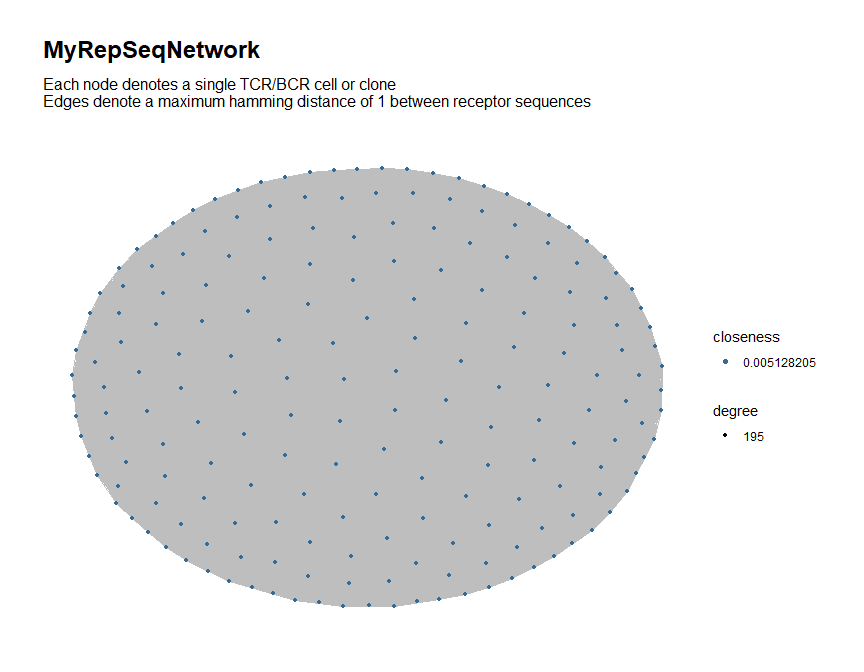
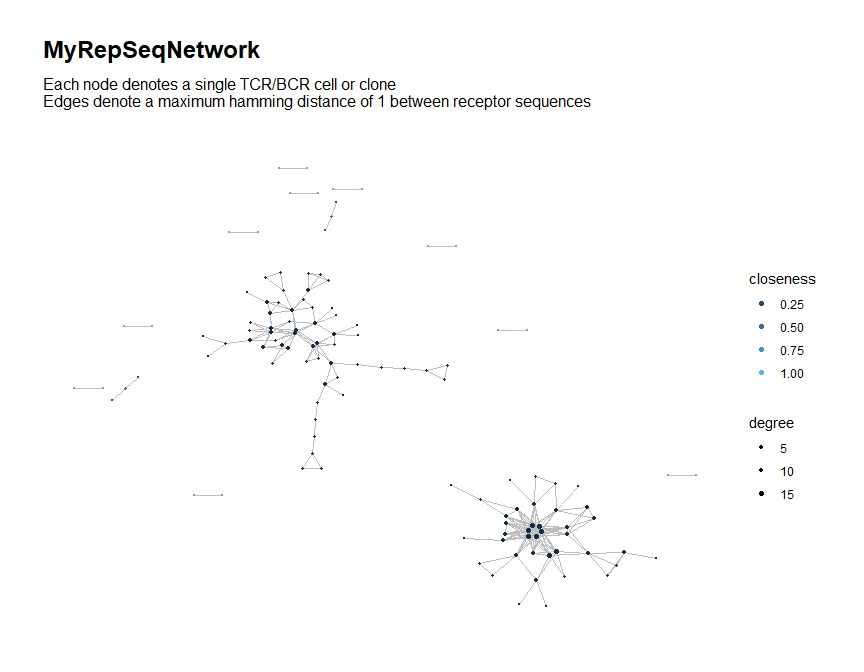
bugfix to simulateToyData

diff --git a/README.md b/README.md
@@ -103,21 +103,14 @@ package functions.
 library(NAIR)
 dir_out <- tempdir()
 toy_data <- simulateToyData()
-#> Warning in seqs[ranges[, i]] <- paste0(prefix, sample(affixes, size =
-#> sample_size, : number of items to replace is not a multiple of replacement
-#> length
-
-#> Warning in seqs[ranges[, i]] <- paste0(prefix, sample(affixes, size =
-#> sample_size, : number of items to replace is not a multiple of replacement
-#> length
 head(toy_data)
 #>        CloneSeq SampleID
 #> 1 TTGAGGAAATTCG        1
 #> 2 GGAGATGAATCGG        1
-#> 3  TTAAAAAAATTC        1
-#> 4 AAAATAAAATTGG        1
-#> 5                      1
-#> 6                      1
+#> 3 GTCGGGTAATTGG        1
+#> 4 GCCGGGTAATTCG        1
+#> 5 GAAAGAGAATTCG        1
+#> 6 AGGTGGGAATTCG        1
 ```
 
 ## Basic Usage
@@ -133,23 +126,23 @@ head(toy_data)
 output <- buildRepSeqNetwork(toy_data, seq_col = "CloneSeq", 
                              output_dir = dir_out)
 #> Input data contains 200 rows.
-#> Removing sequences with length fewer than 3 characters... Done. 199 rows remaining.
+#> Removing sequences with length fewer than 3 characters... Done. 200 rows remaining.
 #> Computing network edges based on a max hamming distance of 1... Done.
-#> Network contains 196 nodes (after removing isolated nodes).
+#> Network contains 122 nodes (after removing isolated nodes).
 #> Generating graph plot...
 #>  Done.
 #> Node-level meta-data saved to file:
-#>   C:\Users\Brian\AppData\Local\Temp\RtmpIda8Nt/MyRepSeqNetwork_NodeMetadata.csv
+#>   C:\Users\Brian\AppData\Local\Temp\RtmpmuLNBx/MyRepSeqNetwork_NodeMetadata.csv
 ```
 
 <img src="man/figures/README-unnamed-chunk-5-1.png" width="100%" style="display: block; margin: auto;" />
 
     #> Network graph plots saved to file:
-    #>   C:\Users\Brian\AppData\Local\Temp\RtmpIda8Nt/MyRepSeqNetwork.pdf
+    #>   C:\Users\Brian\AppData\Local\Temp\RtmpmuLNBx/MyRepSeqNetwork.pdf
     #> Network igraph saved in edgelist format to file:
-    #>   C:\Users\Brian\AppData\Local\Temp\RtmpIda8Nt/MyRepSeqNetwork_EdgeList.txt
+    #>   C:\Users\Brian\AppData\Local\Temp\RtmpmuLNBx/MyRepSeqNetwork_EdgeList.txt
     #> Adjacency matrix saved to file:
-    #>   C:\Users\Brian\AppData\Local\Temp\RtmpIda8Nt/MyRepSeqNetwork_AdjacencyMatrix.mtx
+    #>   C:\Users\Brian\AppData\Local\Temp\RtmpmuLNBx/MyRepSeqNetwork_AdjacencyMatrix.mtx
 
 The function returns a list containing the following items:
 
@@ -172,7 +165,7 @@ removed):
 
 ``` r
 nrow(output$node_data)
-#> [1] 196
+#> [1] 122
 ```
 
 Thus, this output data serves as biological meta-data for the nodes in
@@ -228,12 +221,12 @@ output <- buildRepSeqNetwork(toy_data, "CloneSeq", node_stats = TRUE,
                              cluster_stats = TRUE, print_plots = FALSE,
                              output_dir = NULL)
 #> Input data contains 200 rows.
-#> Removing sequences with length fewer than 3 characters... Done. 199 rows remaining.
+#> Removing sequences with length fewer than 3 characters... Done. 200 rows remaining.
 #> Computing network edges based on a max hamming distance of 1... Done.
-#> Network contains 196 nodes (after removing isolated nodes).
+#> Network contains 122 nodes (after removing isolated nodes).
 #> Computing node-level network statistics... Done.
 #> Computing cluster membership within the network... Done.
-#> Computing statistics for the 2 clusters in the network... Done.
+#> Computing statistics for the 20 clusters in the network... Done.
 #> Generating graph plot with nodes colored by transitivity... Done.
 ```
 
@@ -246,17 +239,33 @@ names(output)
 #> [5] "plots"
 head(output$cluster_data)
 #>   cluster_id node_count mean_seq_length mean_degree max_degree seq_w_max_degree
-#> 1          1        195               0         195        195                 
-#> 2          2          1               0         195        195                 
+#> 1          1         14           13.00        3.36          9    AAAAAAAAATTGC
+#> 2          2         28           12.96        8.43         18    GGGGGGGAATTGG
+#> 3          3          9           12.67        2.22          4     AGAAGAAAATTC
+#> 4          4          6           13.00        3.33          9    GGGGGGAAATTGG
+#> 5          5          6           12.00        2.17          3     AGGGAGGAATTC
+#> 6          6         25           12.00        4.60         10     AAAAAAAAATTG
 #>   agg_clone_count max_clone_count seq_w_max_count diameter_length
-#> 1              NA              NA              NA               2
-#> 2              NA              NA              NA               1
+#> 1              NA              NA              NA               5
+#> 2              NA              NA              NA               6
+#> 3              NA              NA              NA               7
+#> 4              NA              NA              NA               4
+#> 5              NA              NA              NA               5
+#> 6              NA              NA              NA               6
 #>   global_transitivity assortativity edge_density degree_centrality_index
-#> 1                   1           NaN            1                       0
-#> 2                 NaN           NaN          NaN                     NaN
+#> 1           0.5454545   -0.13886606    0.2307692               0.3076923
+#> 2           0.6084437   -0.05857037    0.2962963               0.3333333
+#> 3           0.2727273   -0.68750000    0.2500000               0.1250000
+#> 4           0.3750000   -0.50000000    0.4000000               0.2000000
+#> 5           0.4285714   -0.09090909    0.4000000               0.2000000
+#> 6           0.3435115   -0.14219251    0.1766667               0.1983333
 #>   closeness_centrality_index eigen_centrality_index eigen_centrality_eigenvalue
-#> 1                          0           1.472627e-16                         194
-#> 2                        NaN           0.000000e+00                           0
+#> 1                  0.5584465              0.6572455                    3.627940
+#> 2                  0.4703335              0.5524239                   11.831606
+#> 3                  0.2311674              0.6748055                    2.238772
+#> 4                  0.4266234              0.5237142                    2.278414
+#> 5                  0.3301948              0.5707806                    2.228328
+#> 6                  0.4012791              0.6291788                    5.885769
 ```
 
 Each row of the cluster-level meta data corresponds to a single cluster
@@ -277,9 +286,9 @@ output <- buildRepSeqNetwork(toy_data, "CloneSeq",
                              node_size_limits = c(0.5, 1.5),
                              output_dir = NULL)
 #> Input data contains 200 rows.
-#> Removing sequences with length fewer than 3 characters... Done. 199 rows remaining.
+#> Removing sequences with length fewer than 3 characters... Done. 200 rows remaining.
 #> Computing network edges based on a max hamming distance of 1... Done.
-#> Network contains 196 nodes (after removing isolated nodes).
+#> Network contains 122 nodes (after removing isolated nodes).
 #> Computing cluster membership within the network... Done.
 #> Computing node-level network statistics... Done.
 #> Generating graph plot with nodes colored by transitivity...
